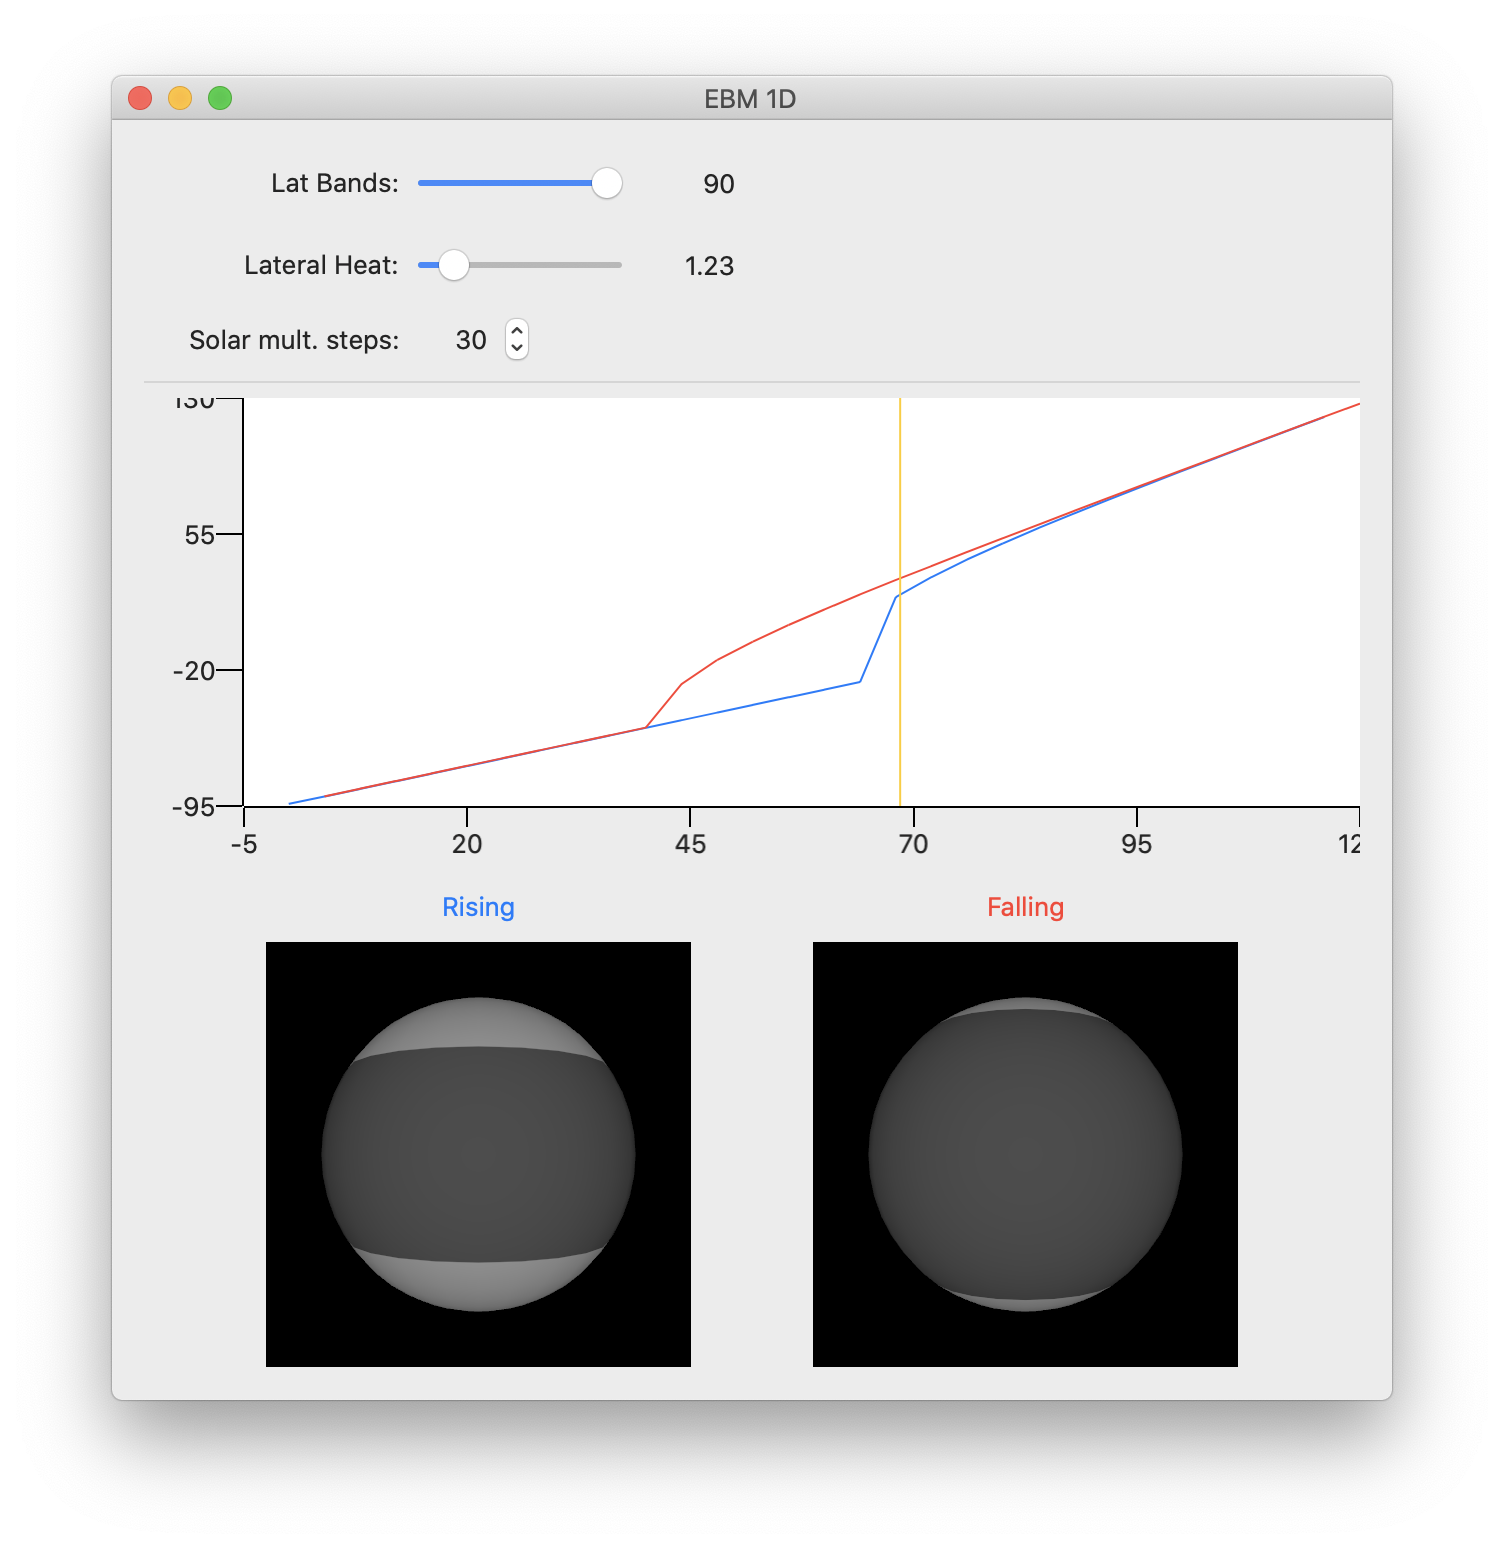
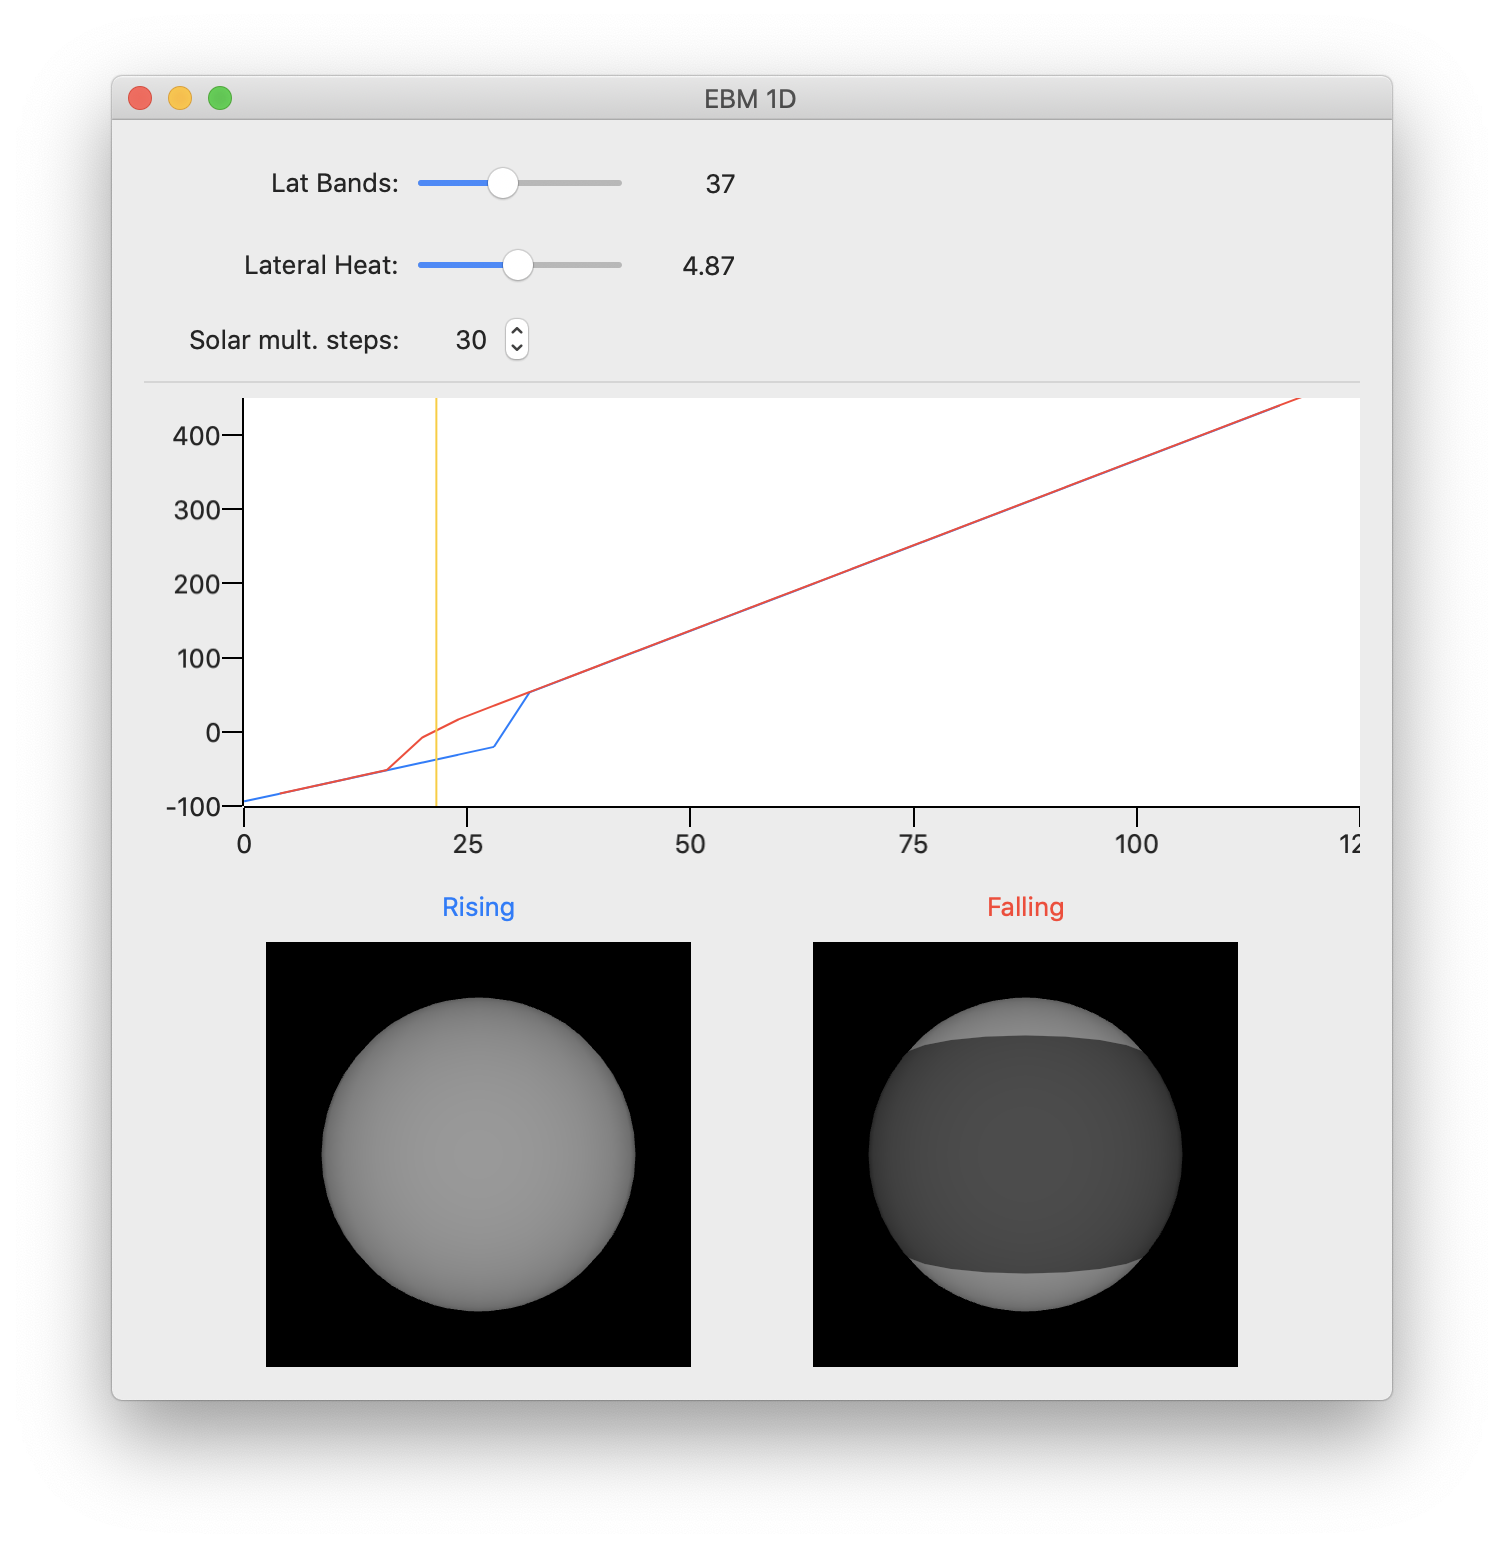
Hardwire axis limits to better illustrate influence of discrete latitude band count.  Remove dead code.  Address swiftlint issues.

diff --git a/EBM1D/Views/ChartViews/ChartData.swift b/EBM1D/Views/ChartViews/ChartData.swift
@@ -11,7 +11,10 @@ import SwiftUI
 struct ChartData: Identifiable {
     var id = UUID()
     let series: [Series2D]
-    
+
+    let origin: CGPoint?
+    let size: CGSize?
+
     func bounds() -> CGRect {
         var first = true
         var result = CGRect.zero
@@ -26,17 +29,20 @@ struct ChartData: Identifiable {
         }
         return result
     }
-    
+
     func roundedBounds() -> CGRect {
+        if let origin = origin, let size = size {
+            return CGRect(origin: origin, size: size)
+        }
         let b = bounds()
-        let xAxis = AxisLimits(b.origin.x, b.origin.x + b.size.width)
-        let yAxis = AxisLimits(b.origin.y, b.origin.y + b.size.height)
+        let xAxis = AxisLimits(b.origin.x, b.size.width)
+        let yAxis = AxisLimits(b.origin.y, b.size.height)
         let origin = CGPoint(x: xAxis.axMin, y: yAxis.axMin)
         let size = CGSize(width: xAxis.extent, height: yAxis.extent)
         let result = CGRect(origin: origin, size: size)
         return result
     }
-    
+
     func rectTransform(_ rect: CGRect) -> CGAffineTransform {
         let dataRect = roundedBounds()
 
@@ -46,7 +52,7 @@ struct ChartData: Identifiable {
         let trans1 = CGAffineTransform.identity
             .scaledBy(x: 1.0 / dataRect.width, y: 1.0 / dataRect.height)
             .translatedBy(x: -dataRect.origin.x, y: -dataRect.origin.y)
-        
+
         // Flip the y axis.
         let tFlipY = CGAffineTransform.identity
             .scaledBy(x: 1.0, y: -1.0)
@@ -61,7 +67,7 @@ struct ChartData: Identifiable {
         let result = trans1.concatenating(tFlipY.concatenating(trans2))
         return result
     }
-    
+
     // Rescale/translate chart data to fill rect.
     func fittedTo(_ rect: CGRect) -> ChartData {
         var newSeries = [Series2D]()
@@ -69,10 +75,10 @@ struct ChartData: Identifiable {
         for currSeries in series {
             newSeries.append(currSeries.applying(xform))
         }
-        let result = ChartData(series: newSeries)
+        let result = ChartData(series: newSeries, origin: nil, size: nil)
         return result
     }
-    
+
     // Convert x from view coordinates to chartdata coordinates
     func xFitted(_ x: CGFloat, rect: CGRect) -> CGFloat {
         let xform = rectTransform(rect).inverted()
@@ -81,3 +87,12 @@ struct ChartData: Identifiable {
     }
 }
 
+extension ChartData {
+    init(series: [Series2D]) {
+        self.init(series: series, origin: nil, size: nil)
+    }
+
+    init() {
+        self.init(series: [Series2D]())
+    }
+}

diff --git a/EBM1D/Views/ChartViews/ChartDataView.swift b/EBM1D/Views/ChartViews/ChartDataView.swift
@@ -11,7 +11,7 @@ import SwiftUI
 struct FittedPaths {
     let geom: GeometryProxy
     let data: ChartData
-    
+
     struct SeriesPath: Identifiable {
         let id = UUID()
         let index: Int
@@ -20,17 +20,17 @@ struct FittedPaths {
 
     private func seriesPath(_ dataSeries: Series2D) -> Path {
         var result = Path()
-        
+
         let points = dataSeries.values
         guard points.count > 0 else { return result }
-        
+
         for i in 1..<points.count {
             result.move(to: points[i - 1])
             result.addLine(to: points[i])
         }
         return result
     }
-    
+
     func paths() -> [SeriesPath] {
         let fitted = data.fittedTo(geom.frame(in: .local))
         let paths = fitted.series.map { seriesPath($0) }
@@ -40,7 +40,7 @@ struct FittedPaths {
 
 struct ChartDataView: View {
     var data: ChartData
-    
+
     // The x coord of interested, relative to self.
     var selectedViewX: CGFloat
     // Output: the data x value corresponding to selectedViewX.
@@ -64,13 +64,11 @@ struct ChartDataView: View {
                 }
                 .stroke()
                 .foregroundColor(.yellow)
-                // TODO Axes
-                // TODO Legend
-            }
+            }.clipped()
         }
        .foregroundColor(.white)
     }
-    
+
     private func selectedXPath(_ gp: GeometryProxy) -> Path {
         let rect = gp.frame(in: .local)
         self.updateSelectedXVal(gp)
@@ -82,7 +80,7 @@ struct ChartDataView: View {
         result.addLine(to: bottom)
         return result
     }
-    
+
     private func updateSelectedXVal(_ gp: GeometryProxy) {
         let newValue = computedXVal(gp, x: CGFloat(selectedViewX))
         if newValue != self.selectedXVal.wrappedValue {
@@ -96,4 +94,3 @@ struct ChartDataView: View {
         return self.data.xFitted(x, rect: gp.frame(in: .local))
     }
 }
-

diff --git a/EBM1D/Views/ChartViews/AxisLimits.swift b/EBM1D/Views/ChartViews/AxisLimits.swift
@@ -12,32 +12,28 @@ struct AxisLimits {
     let axMin: CGFloat
     let axMax: CGFloat
     let extent: CGFloat
-    let ticks: [CGFloat]
-    
-    init(_ minVal: CGFloat, _ maxVal: CGFloat) {
-        guard minVal < maxVal else {
+
+    init(_ minVal: CGFloat, _ extent: CGFloat) {
+        guard extent > 0 else {
             axMin = 0.0
             axMax = 1.0
-            extent = 1.0
-            ticks = [0.0, 1.0]
+            self.extent = extent
             return
         }
+        let maxVal = minVal + extent
         let vRange = maxVal - minVal
         let fifths = Self.getFifths(vRange)
-        let lo = Self.roundedToTick(minVal, fifths, false)
-        let hi = Self.roundedToTick(maxVal, fifths, true)
-        let tks = Self.ticks(lo, hi, fifths * 2.0)
-        axMin = lo
-        axMax = hi
-        extent = hi - lo
-        ticks = tks
+
+        axMin = Self.roundedToTick(minVal, fifths, false)
+        axMax = Self.roundedToTick(maxVal, fifths, true)
+        self.extent = extent
     }
-    
+
     private static func getFifths(_ v: CGFloat) -> CGFloat {
         let oom = Int(log10(v) + 0.5)
         return CGFloat(pow(CGFloat(10.0), CGFloat(oom - 1)) / 2.0)
     }
-    
+
     private static func roundedToTick(_ v: CGFloat, _ fifths: CGFloat, _ roundUp: Bool) -> CGFloat {
         var vWhole = CGFloat(Int(v / fifths)) * fifths
         if vWhole != v {
@@ -45,9 +41,4 @@ struct AxisLimits {
         }
         return vWhole
     }
-    
-    private static func ticks(_ lo: CGFloat, _ hi: CGFloat, _ step: CGFloat) -> [CGFloat] {
-        return stride(from: lo, to: hi + step, by: step).map { $0 }
-    }
 }
-

diff --git a/EBM1D/Views/ChartViews/YAxisView.swift b/EBM1D/Views/ChartViews/YAxisView.swift
@@ -24,7 +24,7 @@ class TickValue: Identifiable {
 
 class TickValueCache {
     private static var cache = [TickValue]()
-    
+
     static func tick(_ index: Int) -> TickValue {
         if index >= cache.count {
             let toAdd = (cache.count..<(index + 1))
@@ -39,7 +39,7 @@ class TickValueCache {
 struct YAxisView: View {
     // "Data-space" description of the axis
     let model: AxisViewModel
-    
+
     func ticks() -> [TickValue] {
         model.ticks.enumerated().map { item in
             let result = TickValueCache.tick(item.offset)
@@ -47,7 +47,7 @@ struct YAxisView: View {
             return result
         }
     }
-    
+
     // TODO apply some padding.
     func toView(_ dataValue: CGFloat, _ geom: GeometryProxy) -> CGFloat {
         let fract = (dataValue - model.vMin) / (model.vMax - model.vMin)
@@ -59,7 +59,7 @@ struct YAxisView: View {
         let offsetOrigin = f.origin.y + f.size.height / 2.0
         return offsetOrigin - viewValue
     }
-    
+
     var body: some View {
         // Three columns:
         // Tick labels: a VStack
@@ -98,7 +98,7 @@ struct YAxisView: View {
 struct YAxisView_Previews: PreviewProvider {
     static let model = AxisViewModel(
         vMin: -10.0, vMax: 180.0,
-        ticks: (0...10).map{ CGFloat(2 + 10 * $0) })
+        ticks: (0...10).map { CGFloat(2 + 10 * $0) })
     static var previews: some View {
         YAxisView(model: model)
     }

diff --git a/EBM1D/ViewModels/ViewModel.swift b/EBM1D/ViewModels/ViewModel.swift
@@ -62,7 +62,7 @@ final class ViewModel: ObservableObject {
         }
     }
     @Published var solutions = Model.Result()
-    @Published var chartData = ChartData(series: [Series2D]())
+    @Published var chartData = ChartData()
     @Published var albedos: AlbedoViewModel
     @Published var selectedSolarMult = CGFloat(1.0) {
         didSet {
@@ -98,7 +98,12 @@ final class ViewModel: ObservableObject {
                 ]
                 DispatchQueue.main.async {
                     self.solutions = newSolutions
-                    self.chartData = ChartData(series: allSeries)
+                    self.chartData = ChartData(
+                        series: allSeries,
+                        // Hardwire the axis extents, to make more apparent
+                        // the influence of the number of discrete latitude bands
+                        origin: CGPoint(x: 0.0, y: -100.0),
+                        size: CGSize(width: 125.0, height: 550.0))
                     self.albedos = AlbedoViewModel(solutions: newSolutions, selectedSolarMult: self.selectedSolarMult)
                     self.currentRecalc = nil
                     if self.pending != nil {

diff --git a/EBM1D/Views/ChartViews/ChartView.swift b/EBM1D/Views/ChartViews/ChartView.swift
@@ -12,8 +12,7 @@ struct ChartView: View {
     @State private var selectedX = CGFloat(0.0)
     // TODO should not know of the "global" ViewModel - use a ChartViewModel
     @ObservedObject var model: ViewModel
-    
-    
+
     func xAxModel() -> AxisViewModel {
         let bounds = model.chartData.roundedBounds()
         return AxisViewModel(vMin: bounds.minX, vMax: bounds.maxX)
@@ -35,12 +34,12 @@ struct ChartView: View {
         // tick labels
         return 36.0
     }
-    
+
     func graphWidth(_ geom: GeometryProxy) -> CGFloat {
         let result = geom.size.width - yAxisWidth()
         return (result > 0) ? result : 0.0
     }
-    
+
     func graphHeight(_ geom: GeometryProxy) -> CGFloat {
         let result = geom.size.height - xAxisHeight()
         return (result > 0) ? result : 0.0
@@ -73,7 +72,7 @@ struct ChartView: View {
                     Spacer()
                     XAxisView(model: self.xAxModel())
                         .frame(width: self.graphWidth(geom), height: self.xAxisHeight())
-                    
+
                 }
             }.clipped()
         }

diff --git a/EBM1D/Views/ChartViews/XAxisView.swift b/EBM1D/Views/ChartViews/XAxisView.swift
@@ -12,7 +12,7 @@ struct XAxisView: View {
     // Tick mark locations in data space, including the axis
     // extrema:
     let model: AxisViewModel
-    
+
     // TODO apply some padding.
     func toView(_ dataValue: CGFloat, _ geom: GeometryProxy) -> CGFloat {
         let fract = (dataValue - model.vMin) / (model.vMax - model.vMin)
@@ -22,7 +22,7 @@ struct XAxisView: View {
         let offsetOrigin = f.origin.x - f.size.width / 2.0
         return offsetOrigin + viewValue
     }
-    
+
     var body: some View {
         // Three rows:
         // Horizontal axis
@@ -57,7 +57,6 @@ struct XAxisView: View {
         }
     }
 }
-
 
 struct XAxisView_Previews: PreviewProvider {
     static let vm = AxisViewModel(vMin: 0.0, vMax: 130.0, ticks: [5.0, 25.0, 50.0, 75.0, 100.0, 125.0])

diff --git a/EBM1D/Views/ChartViews/AxisViewModel.swift b/EBM1D/Views/ChartViews/AxisViewModel.swift
@@ -25,7 +25,7 @@ extension AxisViewModel {
         }
         let lo = Double(minVal)
         let hi = Double(maxVal)
-        
+
         let tickInterval: Double = {
             let delta = hi - lo
             for divisions in [3.0, 4.0, 5.0] {
@@ -41,14 +41,12 @@ extension AxisViewModel {
             let result = pow(10.0, oom)
             return result
         }()
-        
+
         let tickValues: [CGFloat] = stride(from: lo, to: hi + tickInterval, by: tickInterval)
             .map { CGFloat($0) }
-        
+
         vMin = minVal
         vMax = maxVal
         ticks = tickValues
     }
 }
-
-// TODO Add extension to auto-round extrema, auto-compute ticks

diff --git a/EBM1D/Views/ChartViews/Series2D.swift b/EBM1D/Views/ChartViews/Series2D.swift
@@ -12,7 +12,7 @@ struct Series2D: Identifiable {
     let id = UUID()
     let name: String
     let values: [CGPoint]
-    
+
     func bounds() -> CGRect {
         var result = CGRect.zero
         var first = true
@@ -27,7 +27,7 @@ struct Series2D: Identifiable {
         }
         return result
     }
-    
+
     // So wasteful of memory:
     func applying(_ xform: CGAffineTransform) -> Series2D {
         let newValues = values.map { $0.applying(xform) }

diff --git a/EBM1D/Views/ChartViews/Palette.swift b/EBM1D/Views/ChartViews/Palette.swift
@@ -10,7 +10,7 @@ import SwiftUI
 
 struct Palette {
     let colors: [Color]
-    
+
     func color(_ i: Int) -> Color {
         return colors[i % colors.count]
     }
